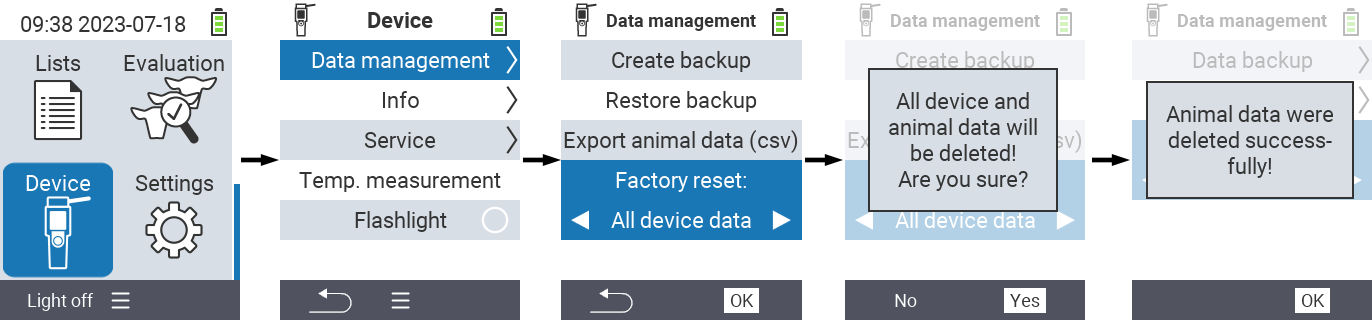
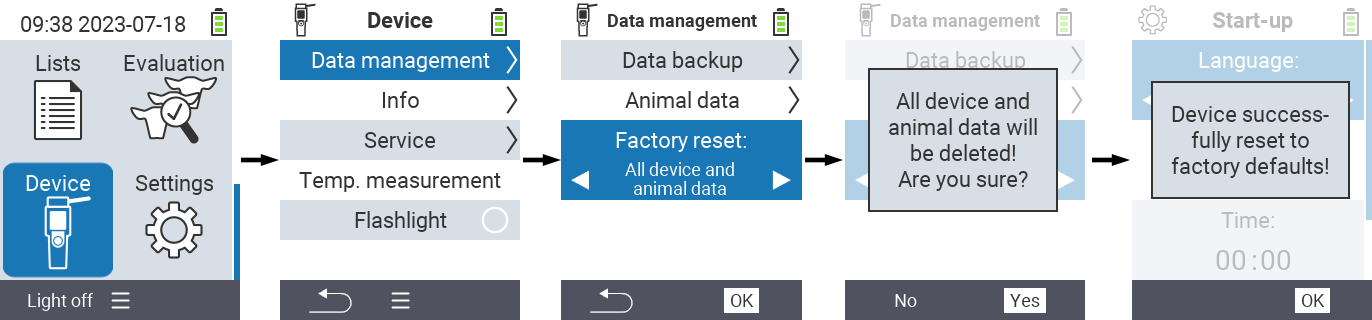
Documentation factory reset: add section on reset of device data

diff --git a/content/en/docs/reset/factory.md b/content/en/docs/reset/factory.md
@@ -2,6 +2,7 @@
 title: "Reset VitalControl device to factory settings"
 linkTitle: "Factory reset"
 date: 2017-01-03
+weight: 20
 description: >
   Restoring default values on your VitalControl device by performing a factory reset.
 categories: [Reset]
@@ -11,12 +12,12 @@ translationKey: reset/factory
 
 1. Open the menu item <img src="/icons/device.svg" width="25" align="bottom" alt="Device" /> `Device` in the main screen of your VitalControl device.
 
-1. Invoke the submenu `Data management`, navigate to the menu entry `Factory reset`. Leave the suggested option `All device data` unchanged.
+1. Invoke the submenu `Data management`, navigate to the menu entry `Factory reset`. Leave the suggested option `All device and animal data` unchanged.
 
 1. Press the `OK` button to trigger the factory reset. Now a pop-up with a security question appears. Confirm with `Yes` here.
 
-1. Settings are reset to factory defaults now. A start-up menu appears, enter your language, date and time there.
+1. Settings are reset to factory defaults and a success message appears. A start-up menu appears, enter your language, date and time there.
 
    ![VitalControl: Menu path Reset to factory default settings](../images/resetdevice.png "Reset to factory settings")
 
-6. Your VitalControl device is successfully reset to factory settings now.
+1. Your VitalControl device is successfully reset to factory settings now.

diff --git a/content/en/docs/reset/devicedata.md b/content/en/docs/reset/devicedata.md
@@ -1,0 +1,23 @@
+---
+title: "Reset of device data"
+linkTitle: "Device data"
+weight: 40
+slug: device-data
+date: 2024-05-14
+description: >
+  Learn how to reset all device settings of the VitalControl device.
+categories: [Reset]
+---
+## Resetting all device data
+
+1. Open the menu item <img src="/icons/device.svg" width="25" align="bottom" alt="Device" /> `Device` in the main screen of your VitalControl device.
+
+1. Invoke the submenu `Data management`, navigate to the menu entry `Factory reset`. Select the option `Device data only` in this menu.
+
+1. Press the `OK` button to trigger reset of all device data. Now a pop-up with a security question appears. Confirm with `Yes` here.
+
+1. Device data are reset and a success message appears. A start-up menu appears, enter your language, date and time there.
+
+   ![VitalControl: Menu path Reset of all device data](../images/resetdevicedata.png "Reset of device data")
+
+1. All device data of your VitalControl device are reset to factory settings now.

diff --git a/content/en/docs/reset/animals.md b/content/en/docs/reset/animals.md
@@ -2,6 +2,7 @@
 title: "Erasing all animal data"
 linkTitle: "Animal data"
 date: 2017-01-02
+weight: 30
 description: >
   Learn how to delete all animals and their data from your VitalControl device.
 categories: [Reset]
